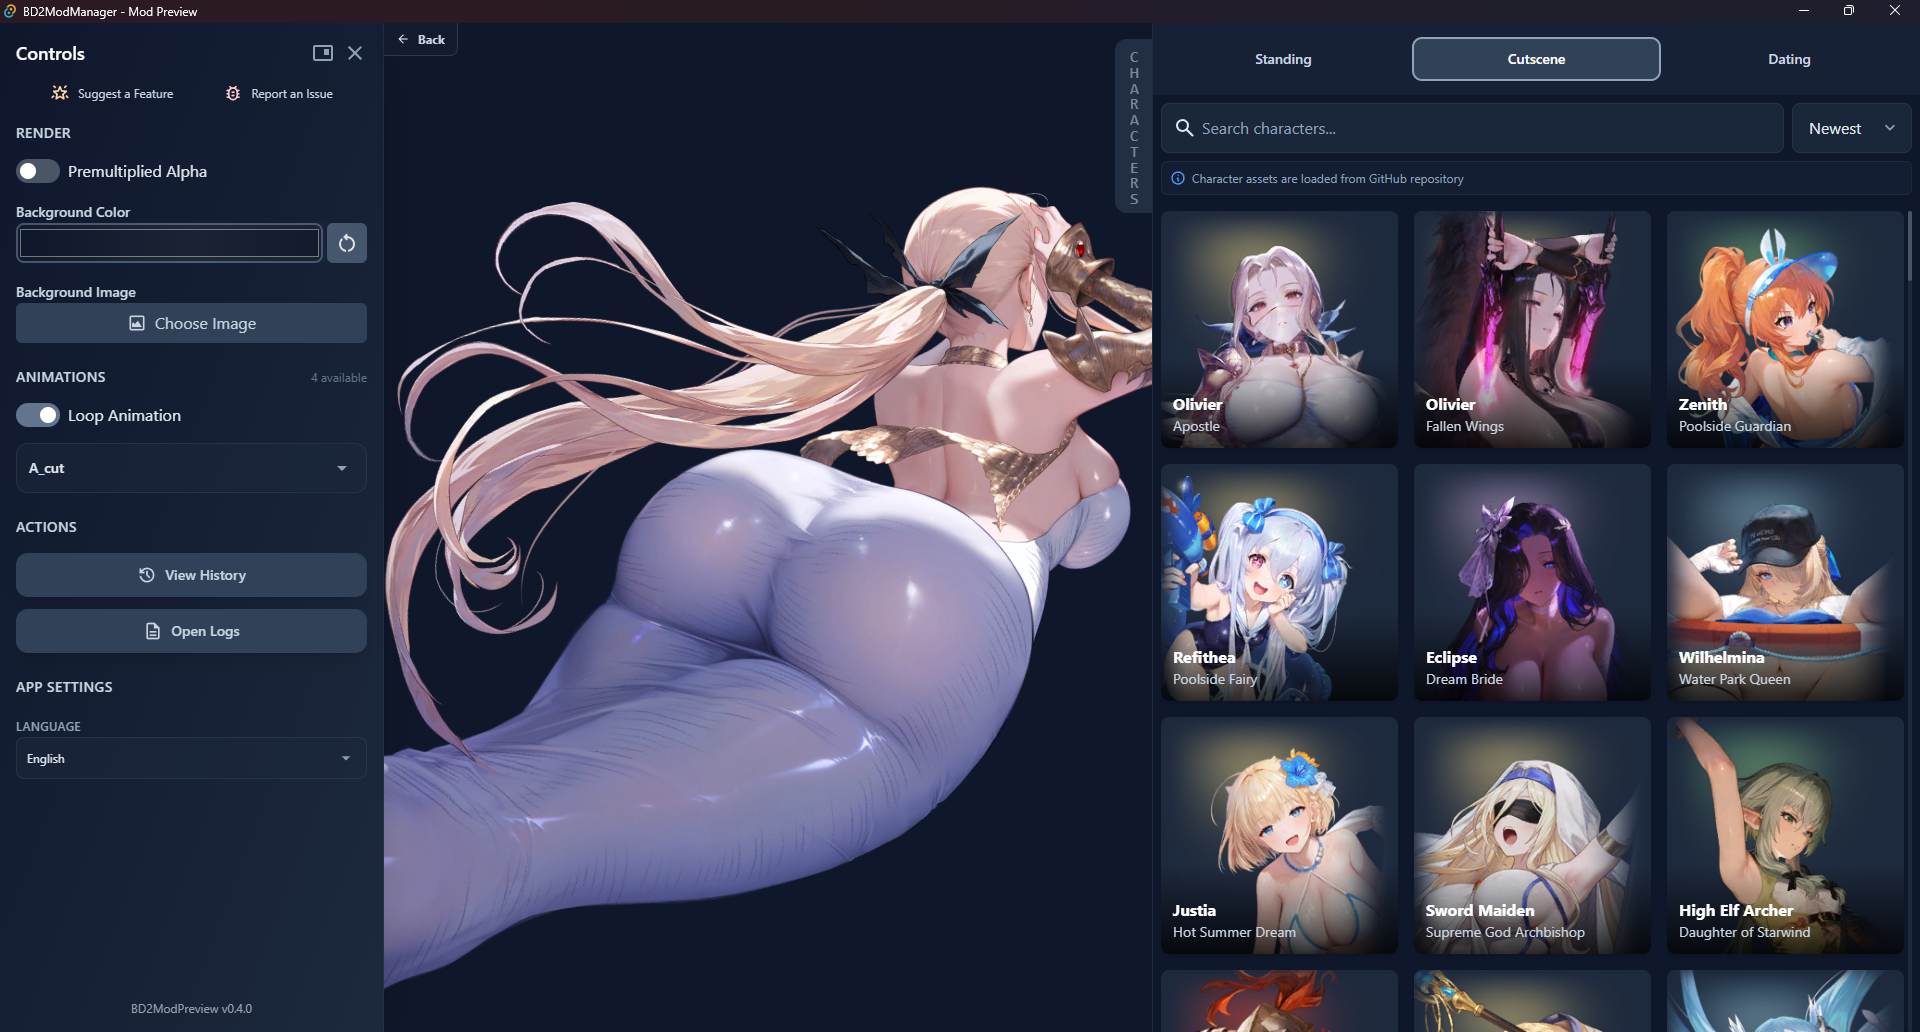
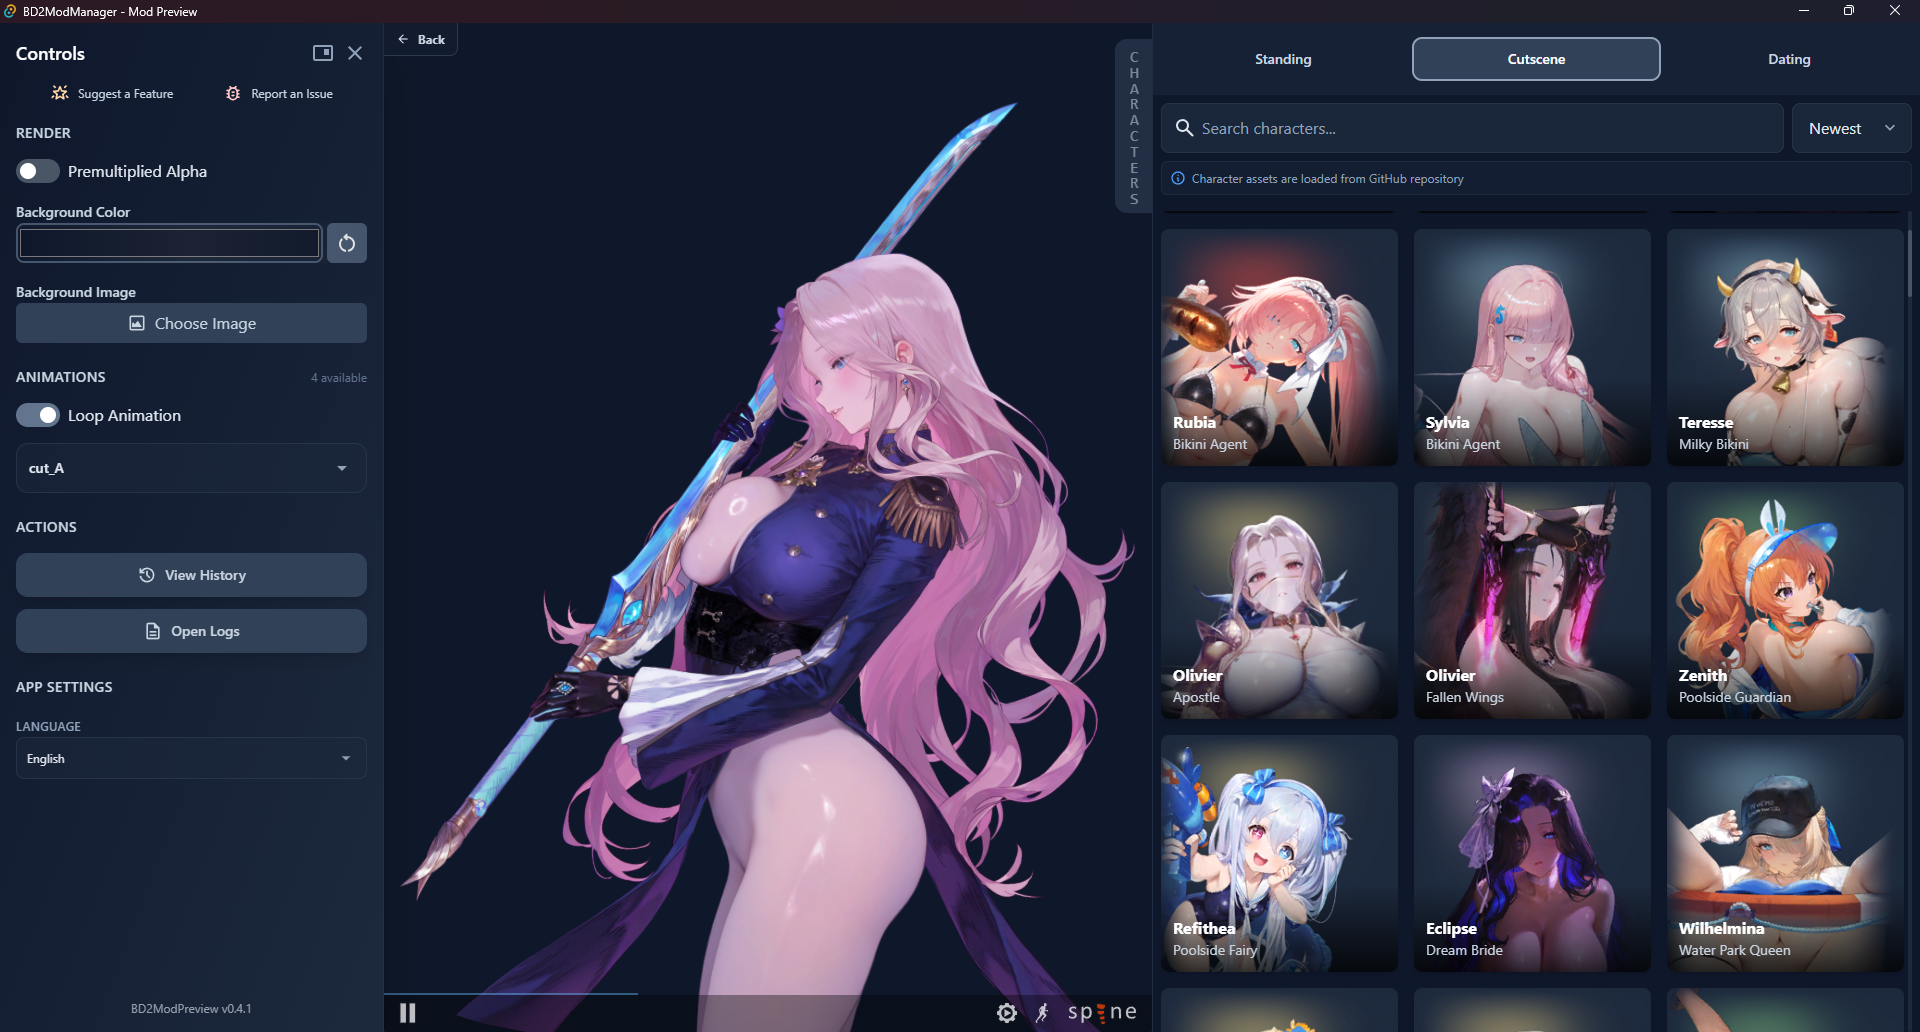
:memo: docs: Update README

diff --git a/README.md b/README.md
@@ -80,6 +80,9 @@ Creates shortcuts instead of copying files.
 ### Characters Page (v3.1.0)
 ![Characters Page](./screenshots/characters_page_v31.png)
 
+### Mod Preview (BD2ModPreview v0.4.1)
+![Mod Preview](./screenshots/bd2modpreview.png)
+
 ---
 ## 🧰 Community & Related Projects  
 
